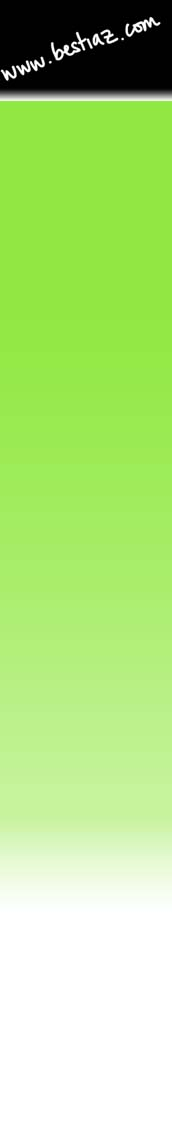
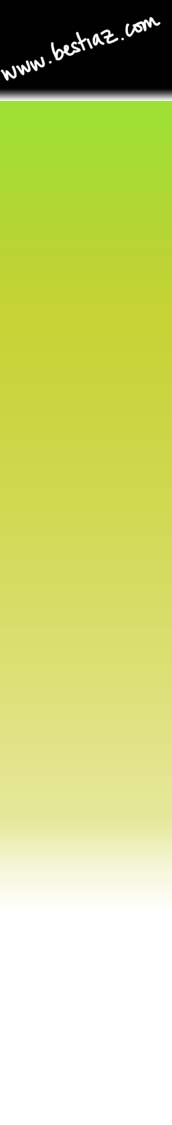
several changes in seccions, sidebar, background and several styles.

diff --git a/public/stylesheets/screen.css b/public/stylesheets/screen.css
@@ -387,11 +387,12 @@ p img {
   margin: 0 0 1.5em -15px;
 }
 .navigation-list li { margin: 0; }
+.navigation-list ul a{ font-weight:bold; }
 .navigation-list li a {
   cursor: pointer !important;
   text-decoration: none;
   /* no font-size*/
-  font-size: 175%;
+  font-size: 100%;
   color: #333333; 
   display: block;
   /*line-height: 2.5em;*/
@@ -412,9 +413,16 @@ p img {
 .navigation-list li.current a.root { width: 183px; }
 .navigation-list a.root {
   color: #222222;
-  font-size: 1.5em;
+  font-size: 1.0em;
   text-indent: -5px;
   line-height: 2.2em;
+	font-weight:bold;
+	color:white;
+	background:black;
+}
+.navigation-list a.root:hover {
+	color:black;
+	background:white;
 }
 .breadcrumbs { margin-bottom: 1em; }
 .breadcrumbs ul {

diff --git a/public/stylesheets/besti.css b/public/stylesheets/besti.css
@@ -27,6 +27,26 @@ height:280px;
   box-shadow: 5px 5px 10px #888888;
 }
 
+#links_secciones{
+  font-weight:bold;
+	font-size:2.0em;
+}
+#links_secciones a{
+	text-decoration:none;
+	font-weight:bold;
+	color:black;
+  border-right:4px solid white;
+  border-left:4px solid white;
+
+}
+
+#links_secciones a:hover{
+	background:#9de039;
+	color:white;
+	border-right:4px solid black;
+	border-left:4px solid black;
+}
+
 #present-right{
   margin-left:15px;
   height:275px;
